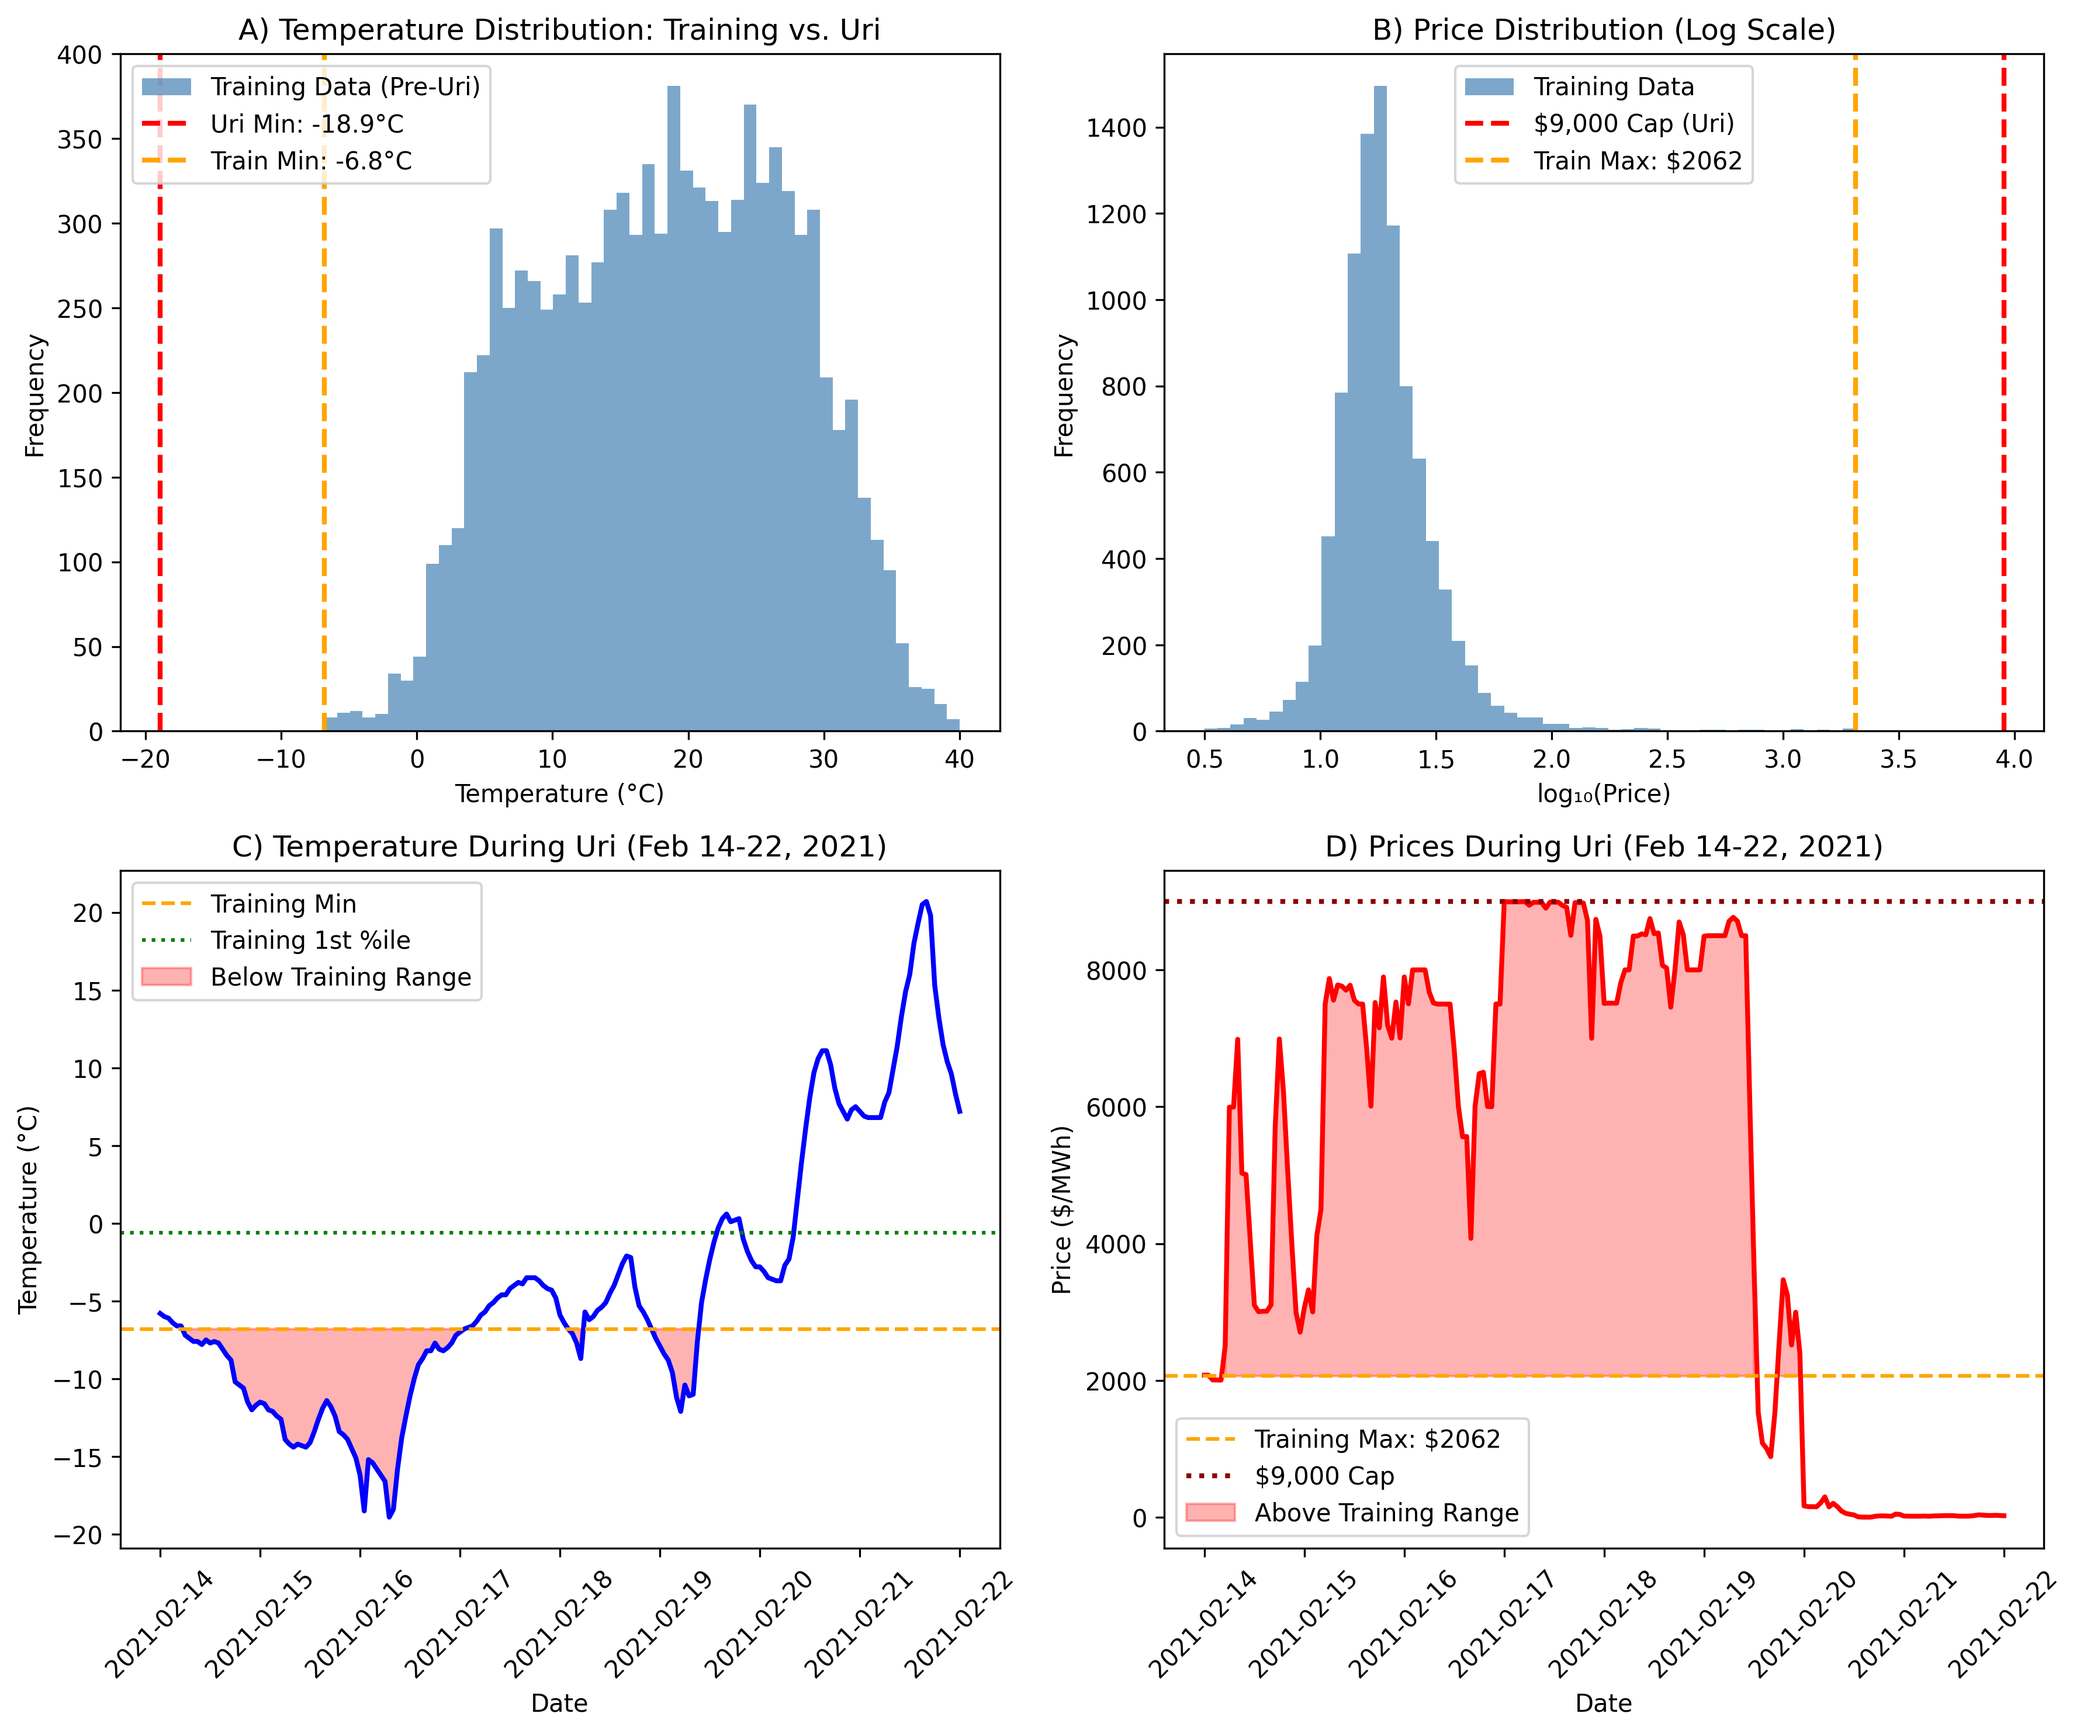
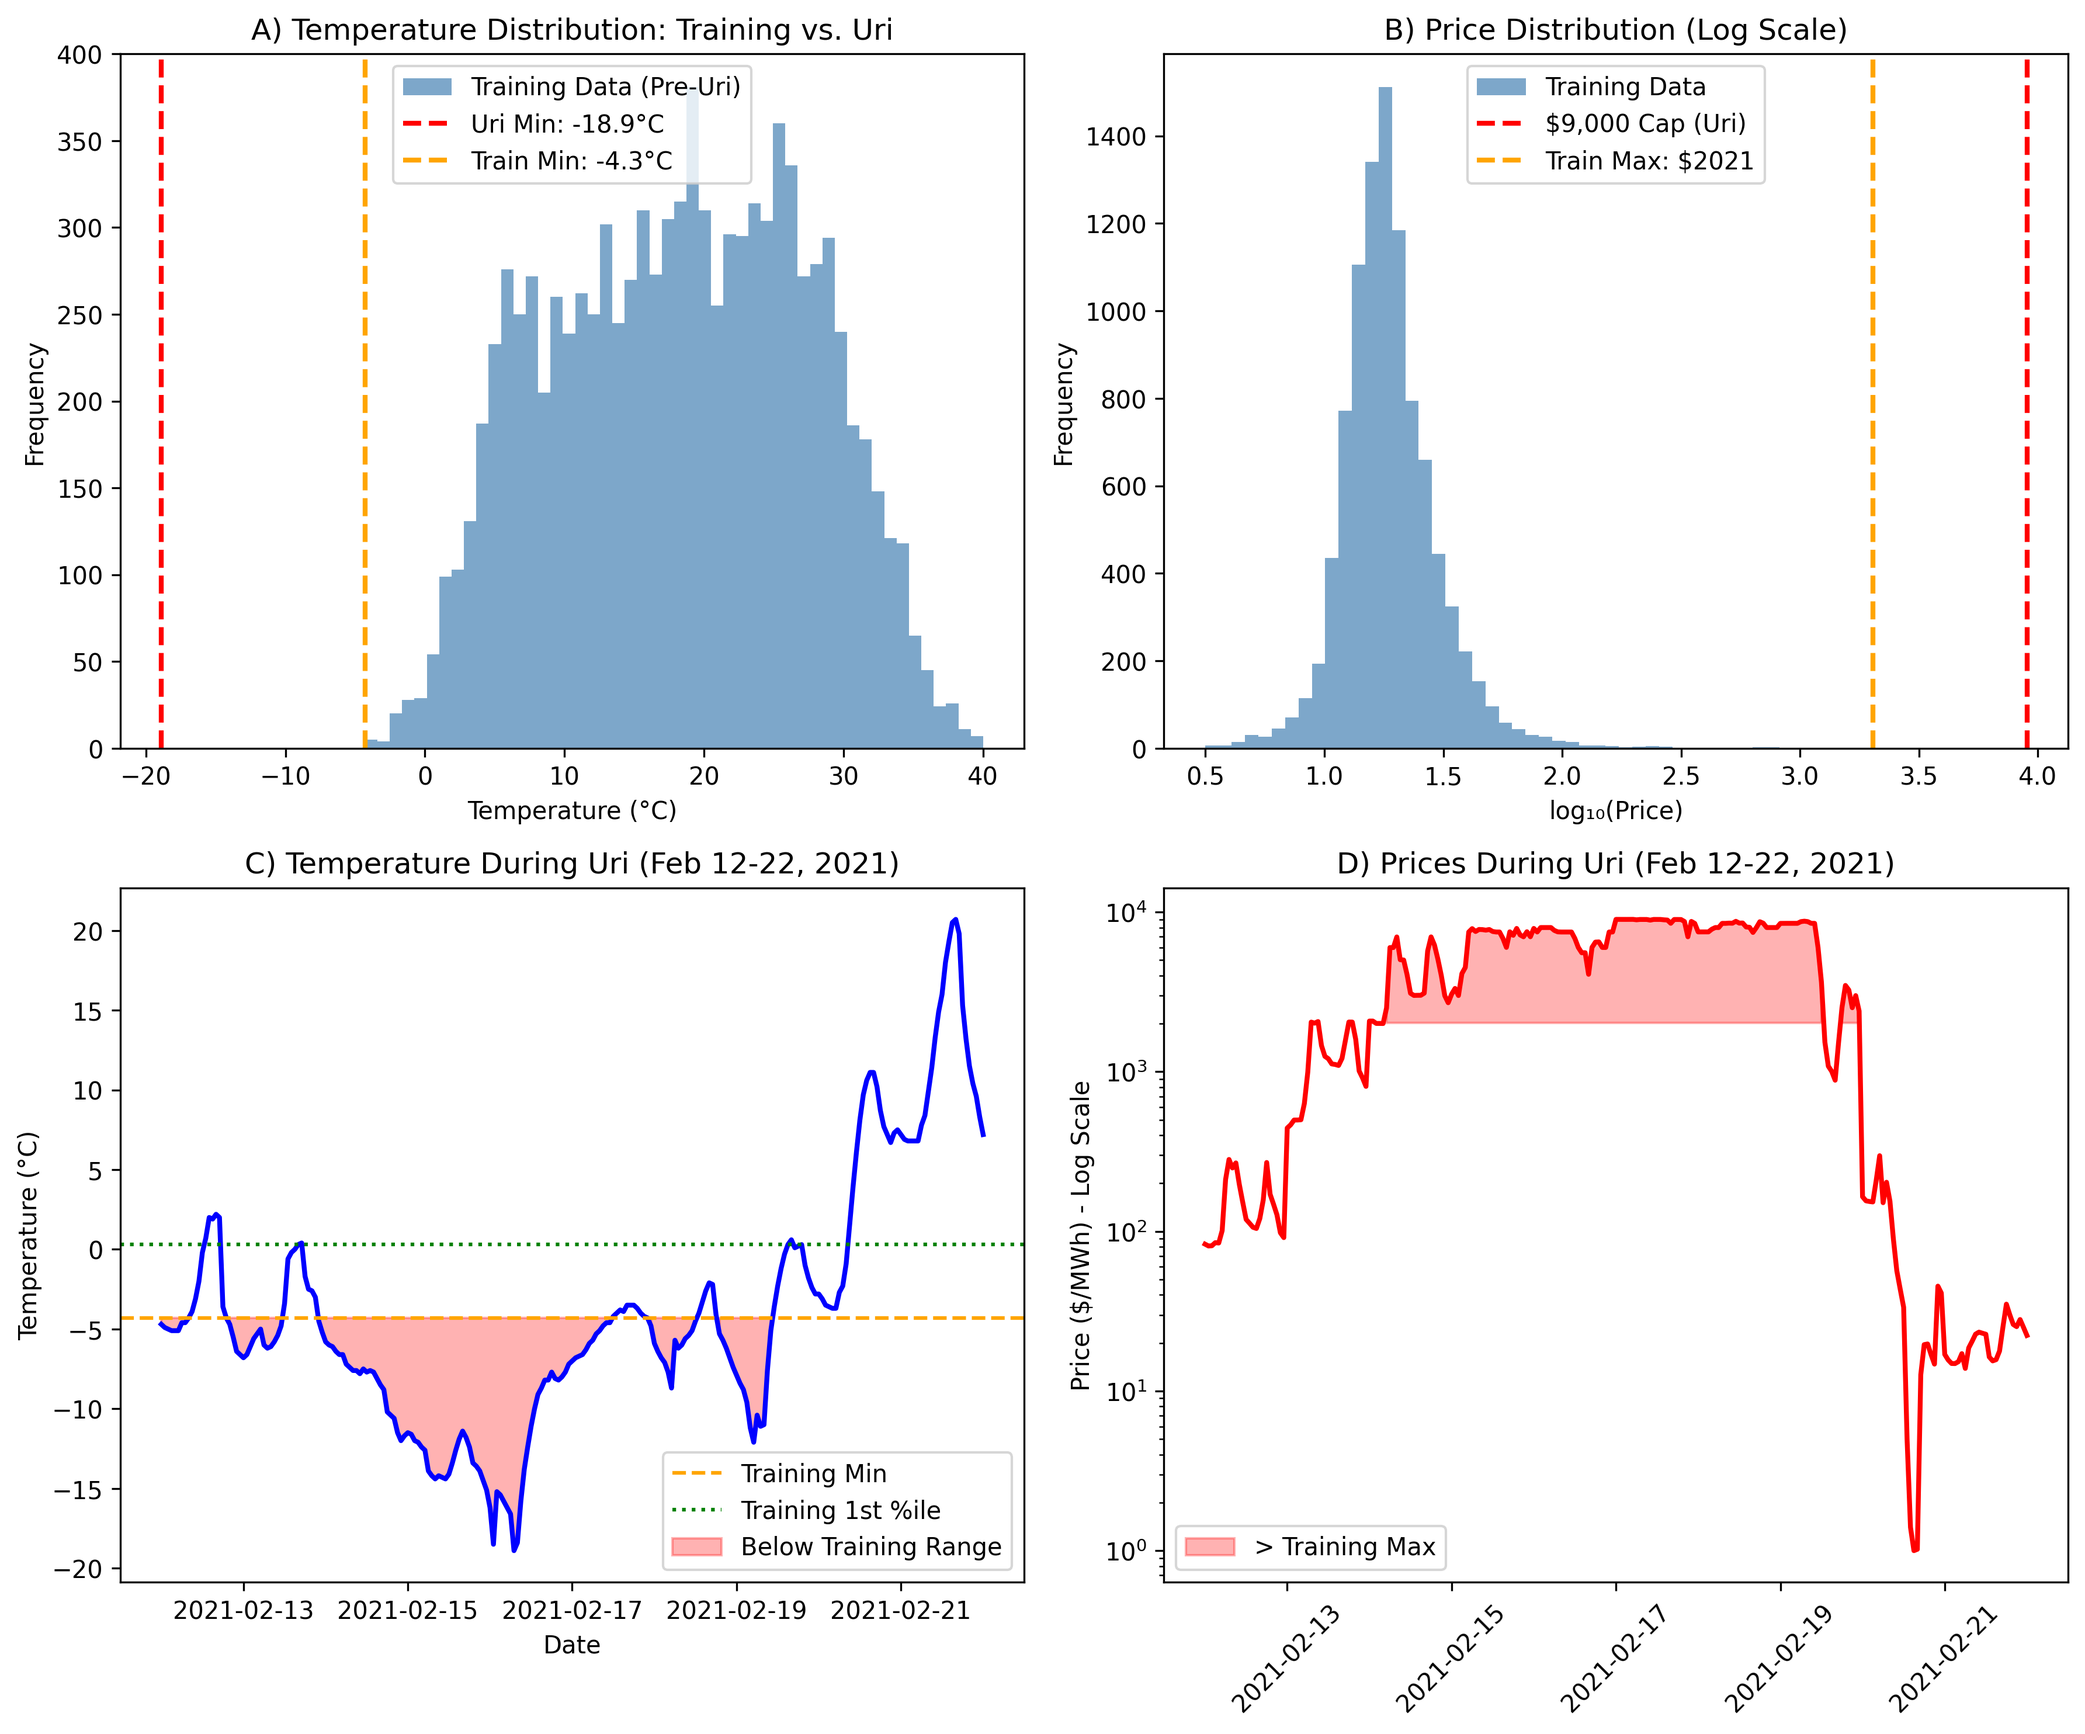
Extended Winter Storm Uri diagnostic plot to Feb 12-22

diff --git a/scripts/analyze_uri.py b/scripts/analyze_uri.py
@@ -32,7 +32,7 @@ def analyze_uri():
     df = load_data()
     
     # Define periods
-    uri_start = pd.Timestamp('2021-02-14')
+    uri_start = pd.Timestamp('2021-02-12')
     uri_end = pd.Timestamp('2021-02-22')
     
     # Training data would have been everything before Uri
@@ -152,21 +152,20 @@ def create_diagnostic_figure(df, uri_start, uri_end, train_data):
                     alpha=0.3, color='red', label='Below Training Range')
     ax.set_xlabel('Date')
     ax.set_ylabel('Temperature (°C)')
-    ax.set_title('C) Temperature During Uri (Feb 14-22, 2021)')
-    ax.legend()
-    ax.tick_params(axis='x', rotation=45)
+    ax.set_title('C) Temperature During Uri (Feb 12-22, 2021)')
+    ax.legend(loc='lower right')
     
     # Panel D: Price during Uri week
     ax = axes[1, 1]
     ax.plot(uri_data['ds'], uri_data['price'], 'r-', linewidth=2)
-    ax.axhline(train_data['price'].max(), color='orange', linestyle='--', label=f'Training Max: ${train_data["price"].max():.0f}')
-    ax.axhline(9000, color='darkred', linestyle=':', linewidth=2, label='$9,000 Cap')
-    ax.fill_between(uri_data['ds'], uri_data['price'], train_data['price'].max(),
-                    where=uri_data['price'] > train_data['price'].max(),
-                    alpha=0.3, color='red', label='Above Training Range')
-    ax.set_xlabel('Date')
-    ax.set_ylabel('Price ($/MWh)')
-    ax.set_title('D) Prices During Uri (Feb 14-22, 2021)')
+    # Highlight area above training max
+    ax.fill_between(uri_data['ds'], uri_data['price'], train_data['price'].max(), 
+                    where=uri_data['price'] > train_data['price'].max(), 
+                    color='red', alpha=0.3, label='> Training Max')
+    
+    ax.set_ylabel('Price ($/MWh) - Log Scale')
+    ax.set_yscale('log')
+    ax.set_title('D) Prices During Uri (Feb 12-22, 2021)')
     ax.legend()
     ax.tick_params(axis='x', rotation=45)
     

diff --git a/paper/main.tex b/paper/main.tex
@@ -369,7 +369,7 @@ Figure~\ref{fig:uri_diagnostic} provides a diagnostic analysis of the model's fa
 \begin{figure}[ht!]
     \centering
     \includegraphics[width=\columnwidth]{figures/uri_diagnostic.png}
-    \caption{Diagnostic analysis of Winter Storm Uri. (A) Temperature during Uri was far outside the training distribution. (B) Prices (log scale) reached 4.4$\times$ training maximum. (C) Hourly temperatures during Feb 14--22, 2021 with training range shown. (D) Hourly prices showing the \$9,000 cap. Shaded regions indicate values outside training range.}
+    \caption{Diagnostic analysis of Winter Storm Uri. (A) Temperature during Uri was far outside the training distribution. (B) Prices (log scale) reached 4.4$\times$ training maximum. (C) Hourly temperatures during Feb 12--22, 2021 with training range shown. (D) Hourly prices (log scale) showing the \$9,000 cap. Shaded regions indicate values outside training range.}
     \label{fig:uri_diagnostic}
 \end{figure}
 
